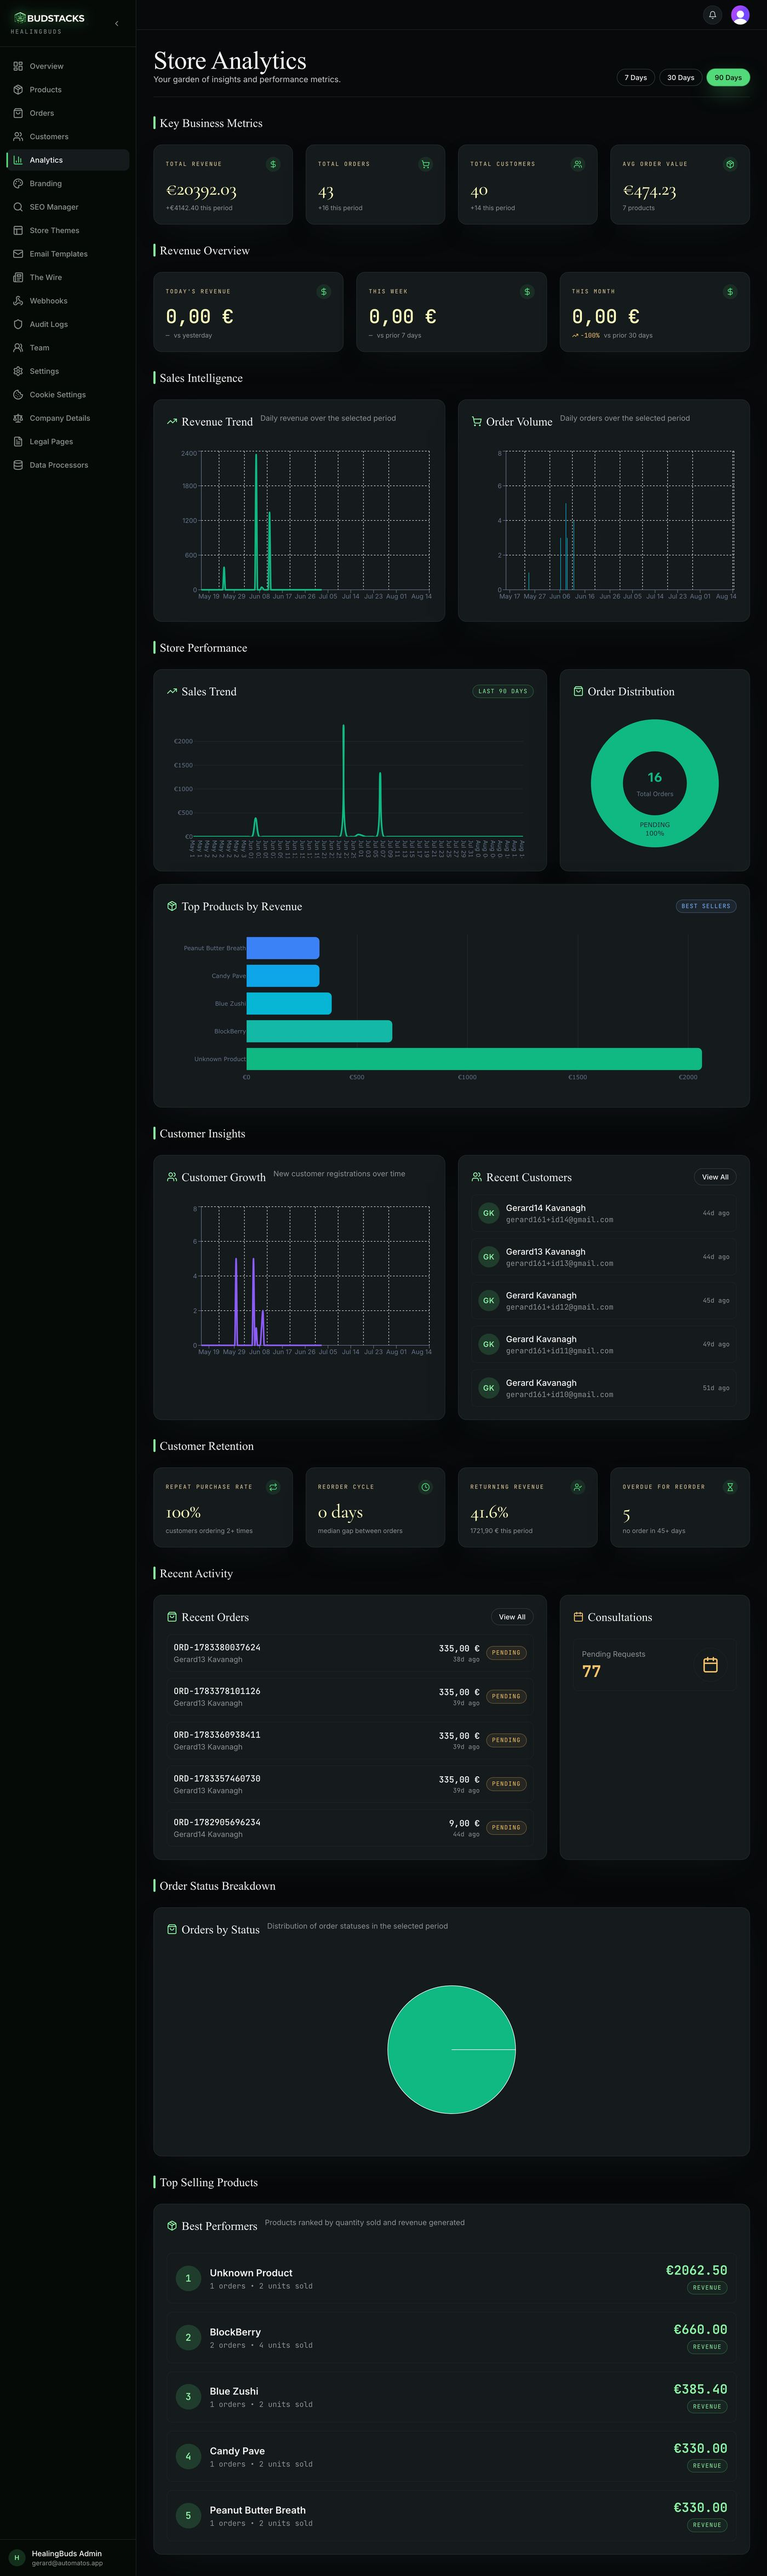
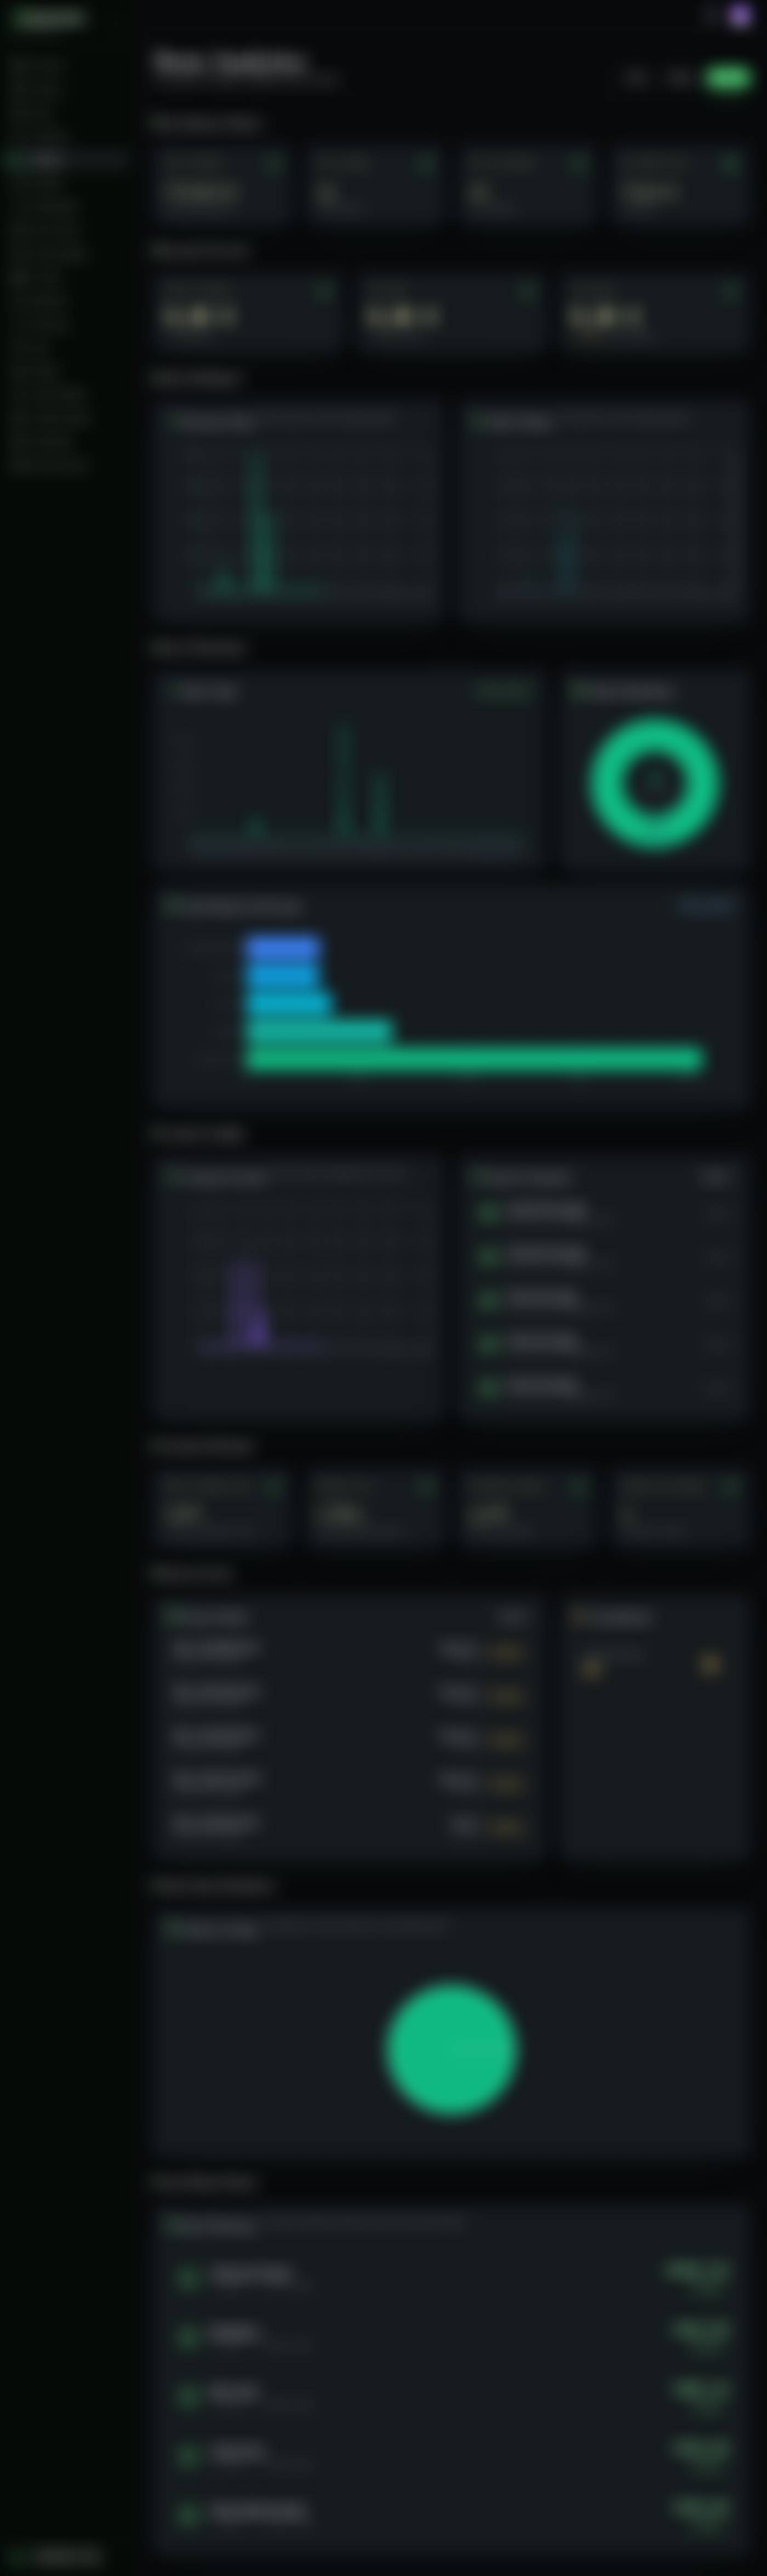
feat(documents): nav + footer Guides links; interim-blur the 7 data-view shots
The customers/orders/analytics/activity/audit screenshots showed real
patient data — blurred (both committed copies) so the branch is safe to
push and the pages ship readable-but-redacted; the demo-store re-shoot
replaces them via capture.mjs --only. Platform nav + footer gain Guides →
/documents (the pages existed with no way to reach them).

diff --git a/nextjs_space/components/homepage/Nav.tsx b/nextjs_space/components/homepage/Nav.tsx
@@ -27,6 +27,7 @@ const NAV_ITEMS: readonly NavItem[] = [
     { label: "The Stack", href: "/#features" },
     { label: "The Numbers", href: "/#pricing" },
     { label: "Marketplace", href: "/marketplace", isRoute: true },
+    { label: "Guides", href: "/documents", isRoute: true },
     { label: "Blog", href: "/blog", isRoute: true },
     { label: "Contact", href: "/contact", isRoute: true },
 ];

diff --git a/nextjs_space/components/homepage/Footer.tsx b/nextjs_space/components/homepage/Footer.tsx
@@ -10,6 +10,7 @@ const COLUMNS = [
             { label: "The Stack", href: "/#features" },
             { label: "The Numbers", href: "/#pricing" },
             { label: "Marketplace", href: "/marketplace" },
+            { label: "Guides", href: "/documents" },
         ],
     },
     {
